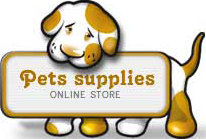
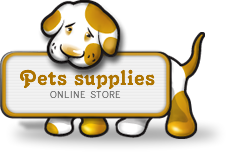
fifth repository

diff --git a/css/pets.css b/css/pets.css
@@ -26,8 +26,9 @@ body {
 	margin:           0px auto;		
 	width:            888px;
 	height:           670px;
-
-	
+    -webkit-box-shadow: -1px 5px 38px -3px rgba(0,0,0,1);
+    -moz-box-shadow: -1px 5px 38px -3px rgba(0,0,0,1);
+    box-shadow: -1px 5px 38px -3px rgba(0,0,0,1);
 }
 .header {
 	height:           203px;
@@ -75,19 +76,22 @@ body {
 }
 .logo {
 	position:         relative;
-	left:             -14px;
+	left:             -20px;
 	top:              40px;
 }
 .navigation {
     display:          block;
 	border-radius:    20px 20px 0px 0px;
-	width:            668px;
+	width:            676px;
 	height:           60px;
 	background-color: #ffedca;
 	float:            right;
 	margin-right:     3px;
-	margin-top:       -13px;   
-    padding:          0px;	
+	margin-top:       -34px;   
+    padding-left:     10px;	
+	-webkit-box-shadow: 0px -10px 40px -13px rgba(0,0,0,0.58);
+    -moz-box-shadow:  0px -10px 40px -13px rgba(0,0,0,0.58);
+    box-shadow:       0px -10px 40px -13px rgba(0,0,0,0.58);
 }
 .navigation_btn {
     list-style-type:  none;
@@ -109,6 +113,10 @@ body {
 	font-family:      Roboto Regular;
 	font-size:        15px;
 	position:         relative;
+    -webkit-box-shadow: inset -6px -6px 10px -4px rgba(0,0,0,0.58);
+    -moz-box-shadow: inset -6px -6px 10px -4px rgba(0,0,0,0.58);
+    box-shadow: inset -6px -6px 10px -4px rgba(0,0,0,0.58);
+	
 }
 .navigation_btn:after {
 	content:          '';
@@ -120,7 +128,10 @@ body {
 	display:          block;
 	z-index:          2;
 	background-color: #4fa32a;
-	border-radius:    2px;
+	border-radius:    3px;
+    -webkit-box-shadow: 0px -1px 10px 0px rgba(0,0,0,1);
+    -moz-box-shadow:  0px -1px 10px 0px rgba(0,0,0,1);
+    box-shadow:       0px -1px 10px 0px rgba(0,0,0,1);
 }
 .navigation_link {
     color:            white;
@@ -134,6 +145,11 @@ body {
 	position:         absolute;
 	left:             32px;
 	top:              20px;
+}
+.navigation_icon {
+	-webkit-box-shadow: 0px 5px 5px -5px rgba(0,0,0,1);
+-moz-box-shadow: 0px 5px 5px -5px rgba(0,0,0,1);
+box-shadow: 0px 5px 5px -5px rgba(0,0,0,1);
 }
 .navigation_icon.dog {
 	background:       url("../ico/sprite.png") no-repeat 0 0;

diff --git a/pets.html b/pets.html
@@ -29,7 +29,7 @@
 			  </a>
 			</li>
 		</div>		
-       <img src="images/pets-saplies.png" alt="pets-suplies" class="logo" />
+       <img src="images/pets-suplies.png" alt="pets-suplies" class="logo" />
        <div class="navigation">		
 		 <nav>
 	      <ul>		     
